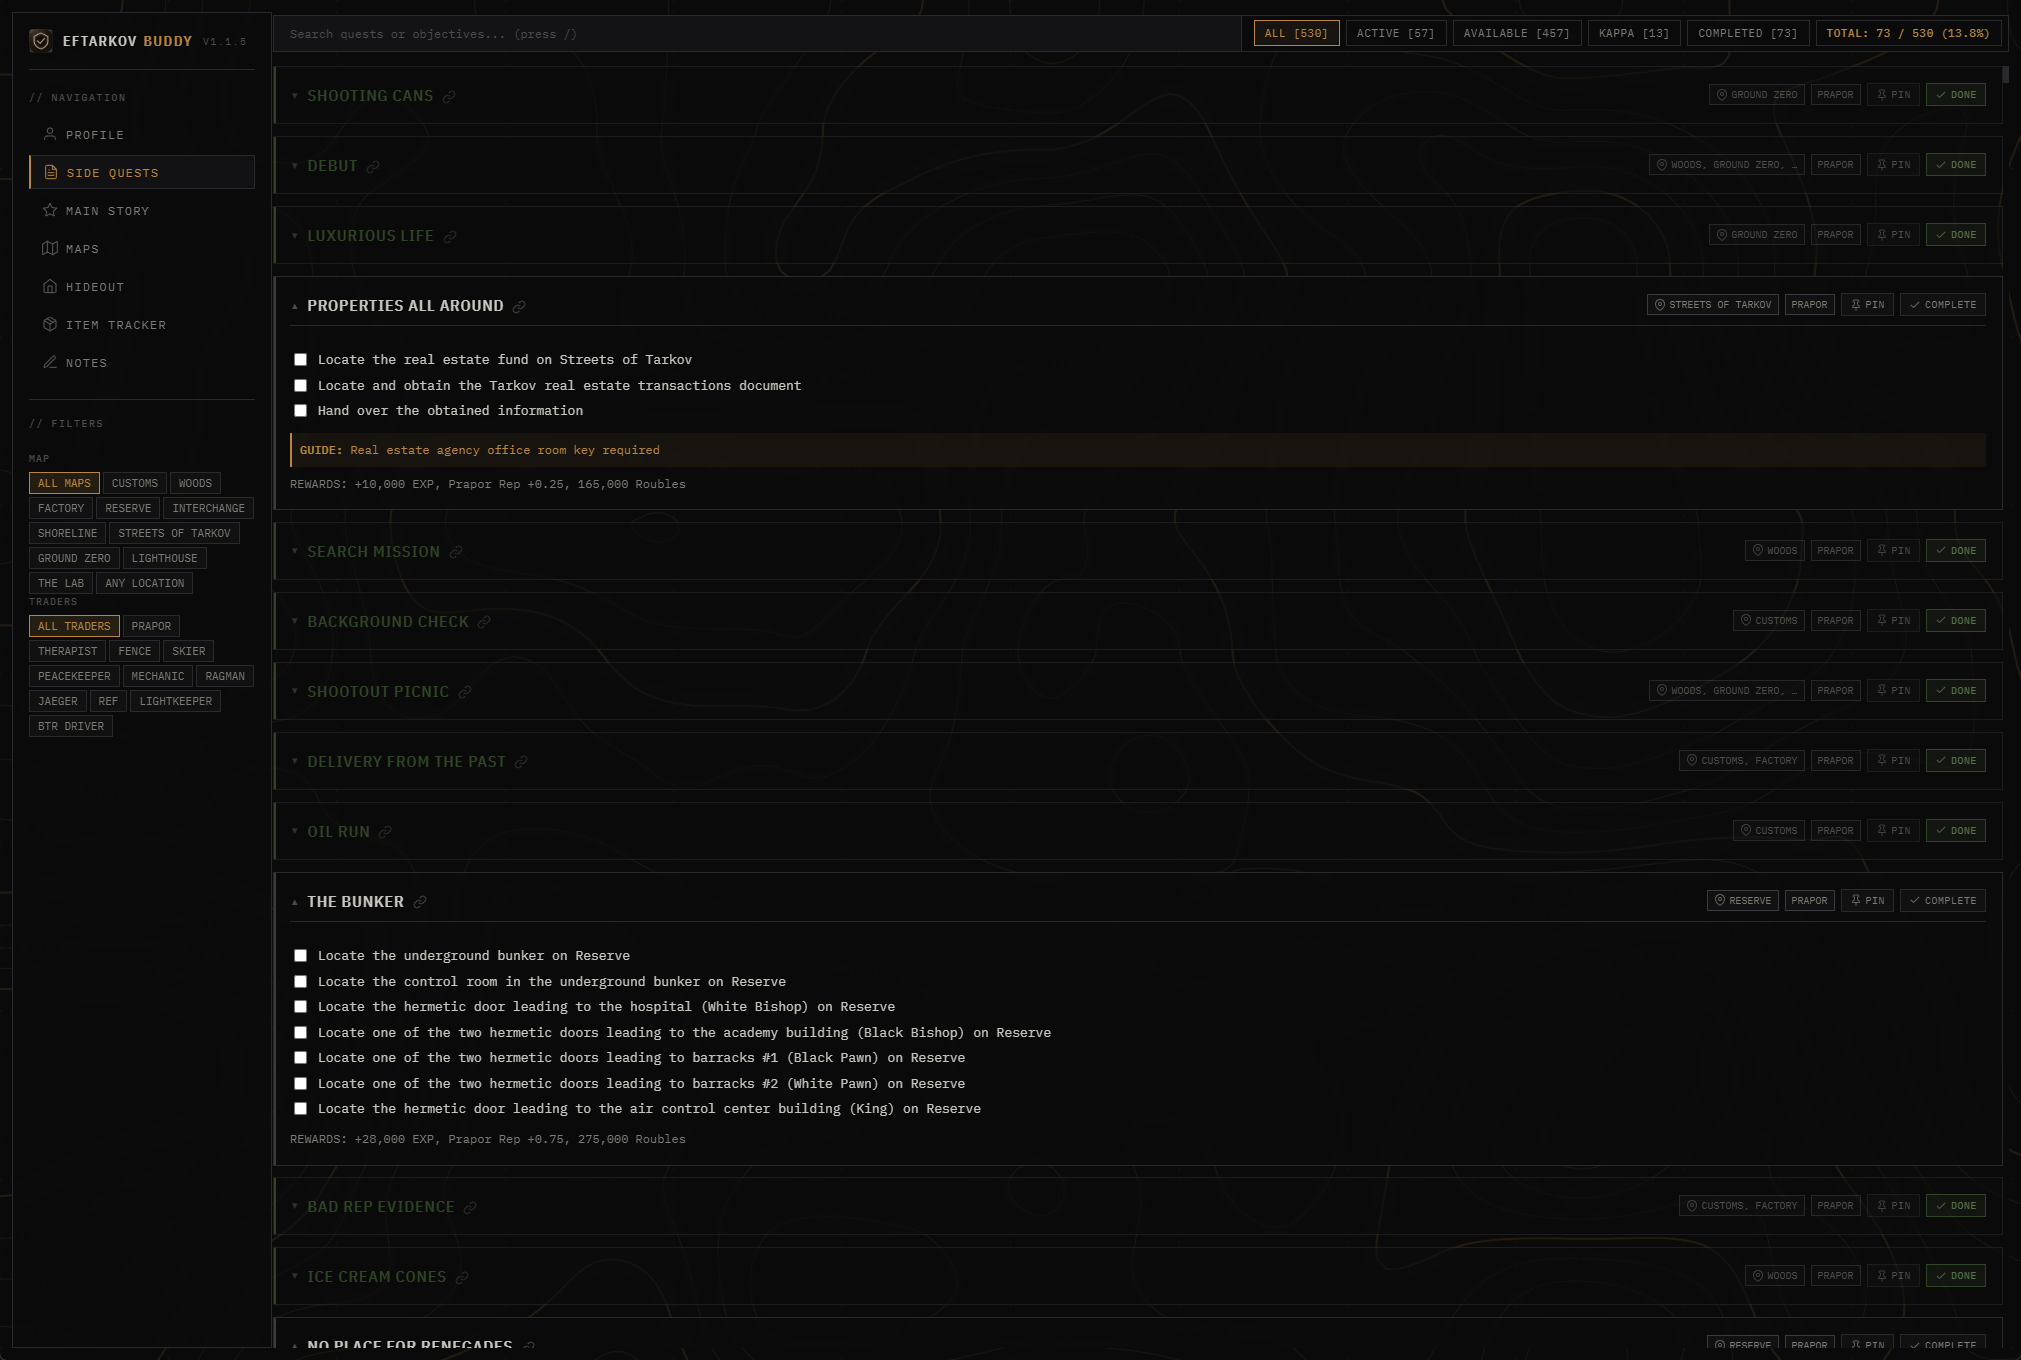
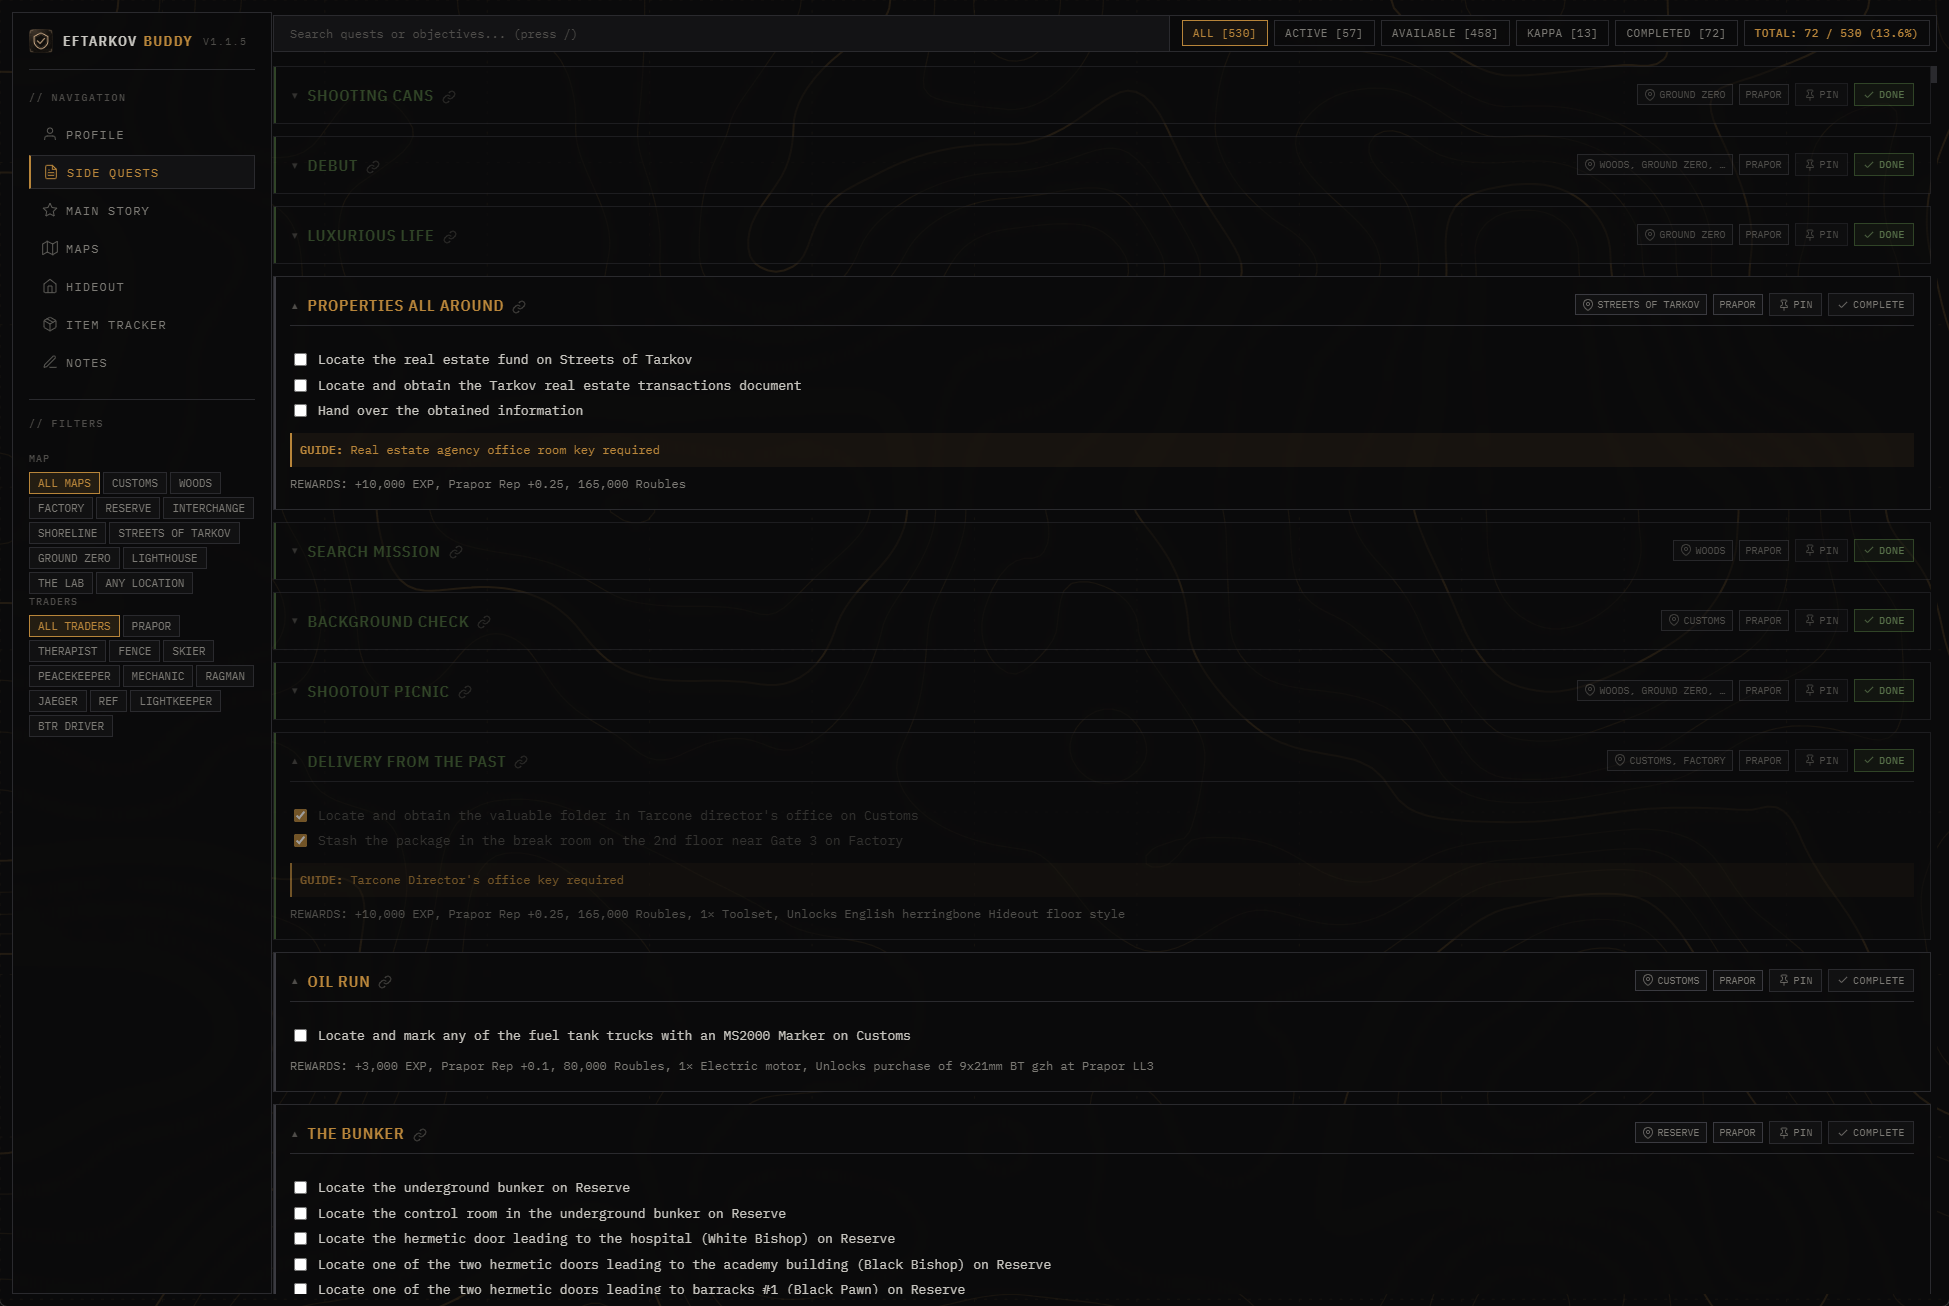
Updated 2 files to version 1.1.5

diff --git a/src/view-quests.js b/src/view-quests.js
@@ -20,7 +20,7 @@ export function renderQuestCard(task, showPinBtn) {
     <div class="card-header">
       <div style="display: flex; align-items: center; gap: 8px;">
         <button class="toggle-icon" aria-expanded="${!folded}" title="Expand/collapse">${folded ? '▼' : '▲'}</button>
-        <span class="quest-title" style="color: ${completed ? 'var(--ok)' : (task.kappa ? 'var(--accent)' : 'var(--text)')}">
+        <span class="quest-title" style="color: ${completed ? 'var(--ok)' : 'var(--accent)'}">
           ${task.kappa ? '<svg class="svg-icon" viewBox="0 0 24 24" style="width:14px; height:14px; color:var(--accent); margin-right:4px;"><polygon points="12 2 15.09 8.26 22 9.27 17 14.14 18.18 21.02 12 17.77 5.82 21.02 7 14.14 2 9.27 8.91 8.26 12 2"/></svg>' : ''}
           ${esc(task.name)}
         </span>
